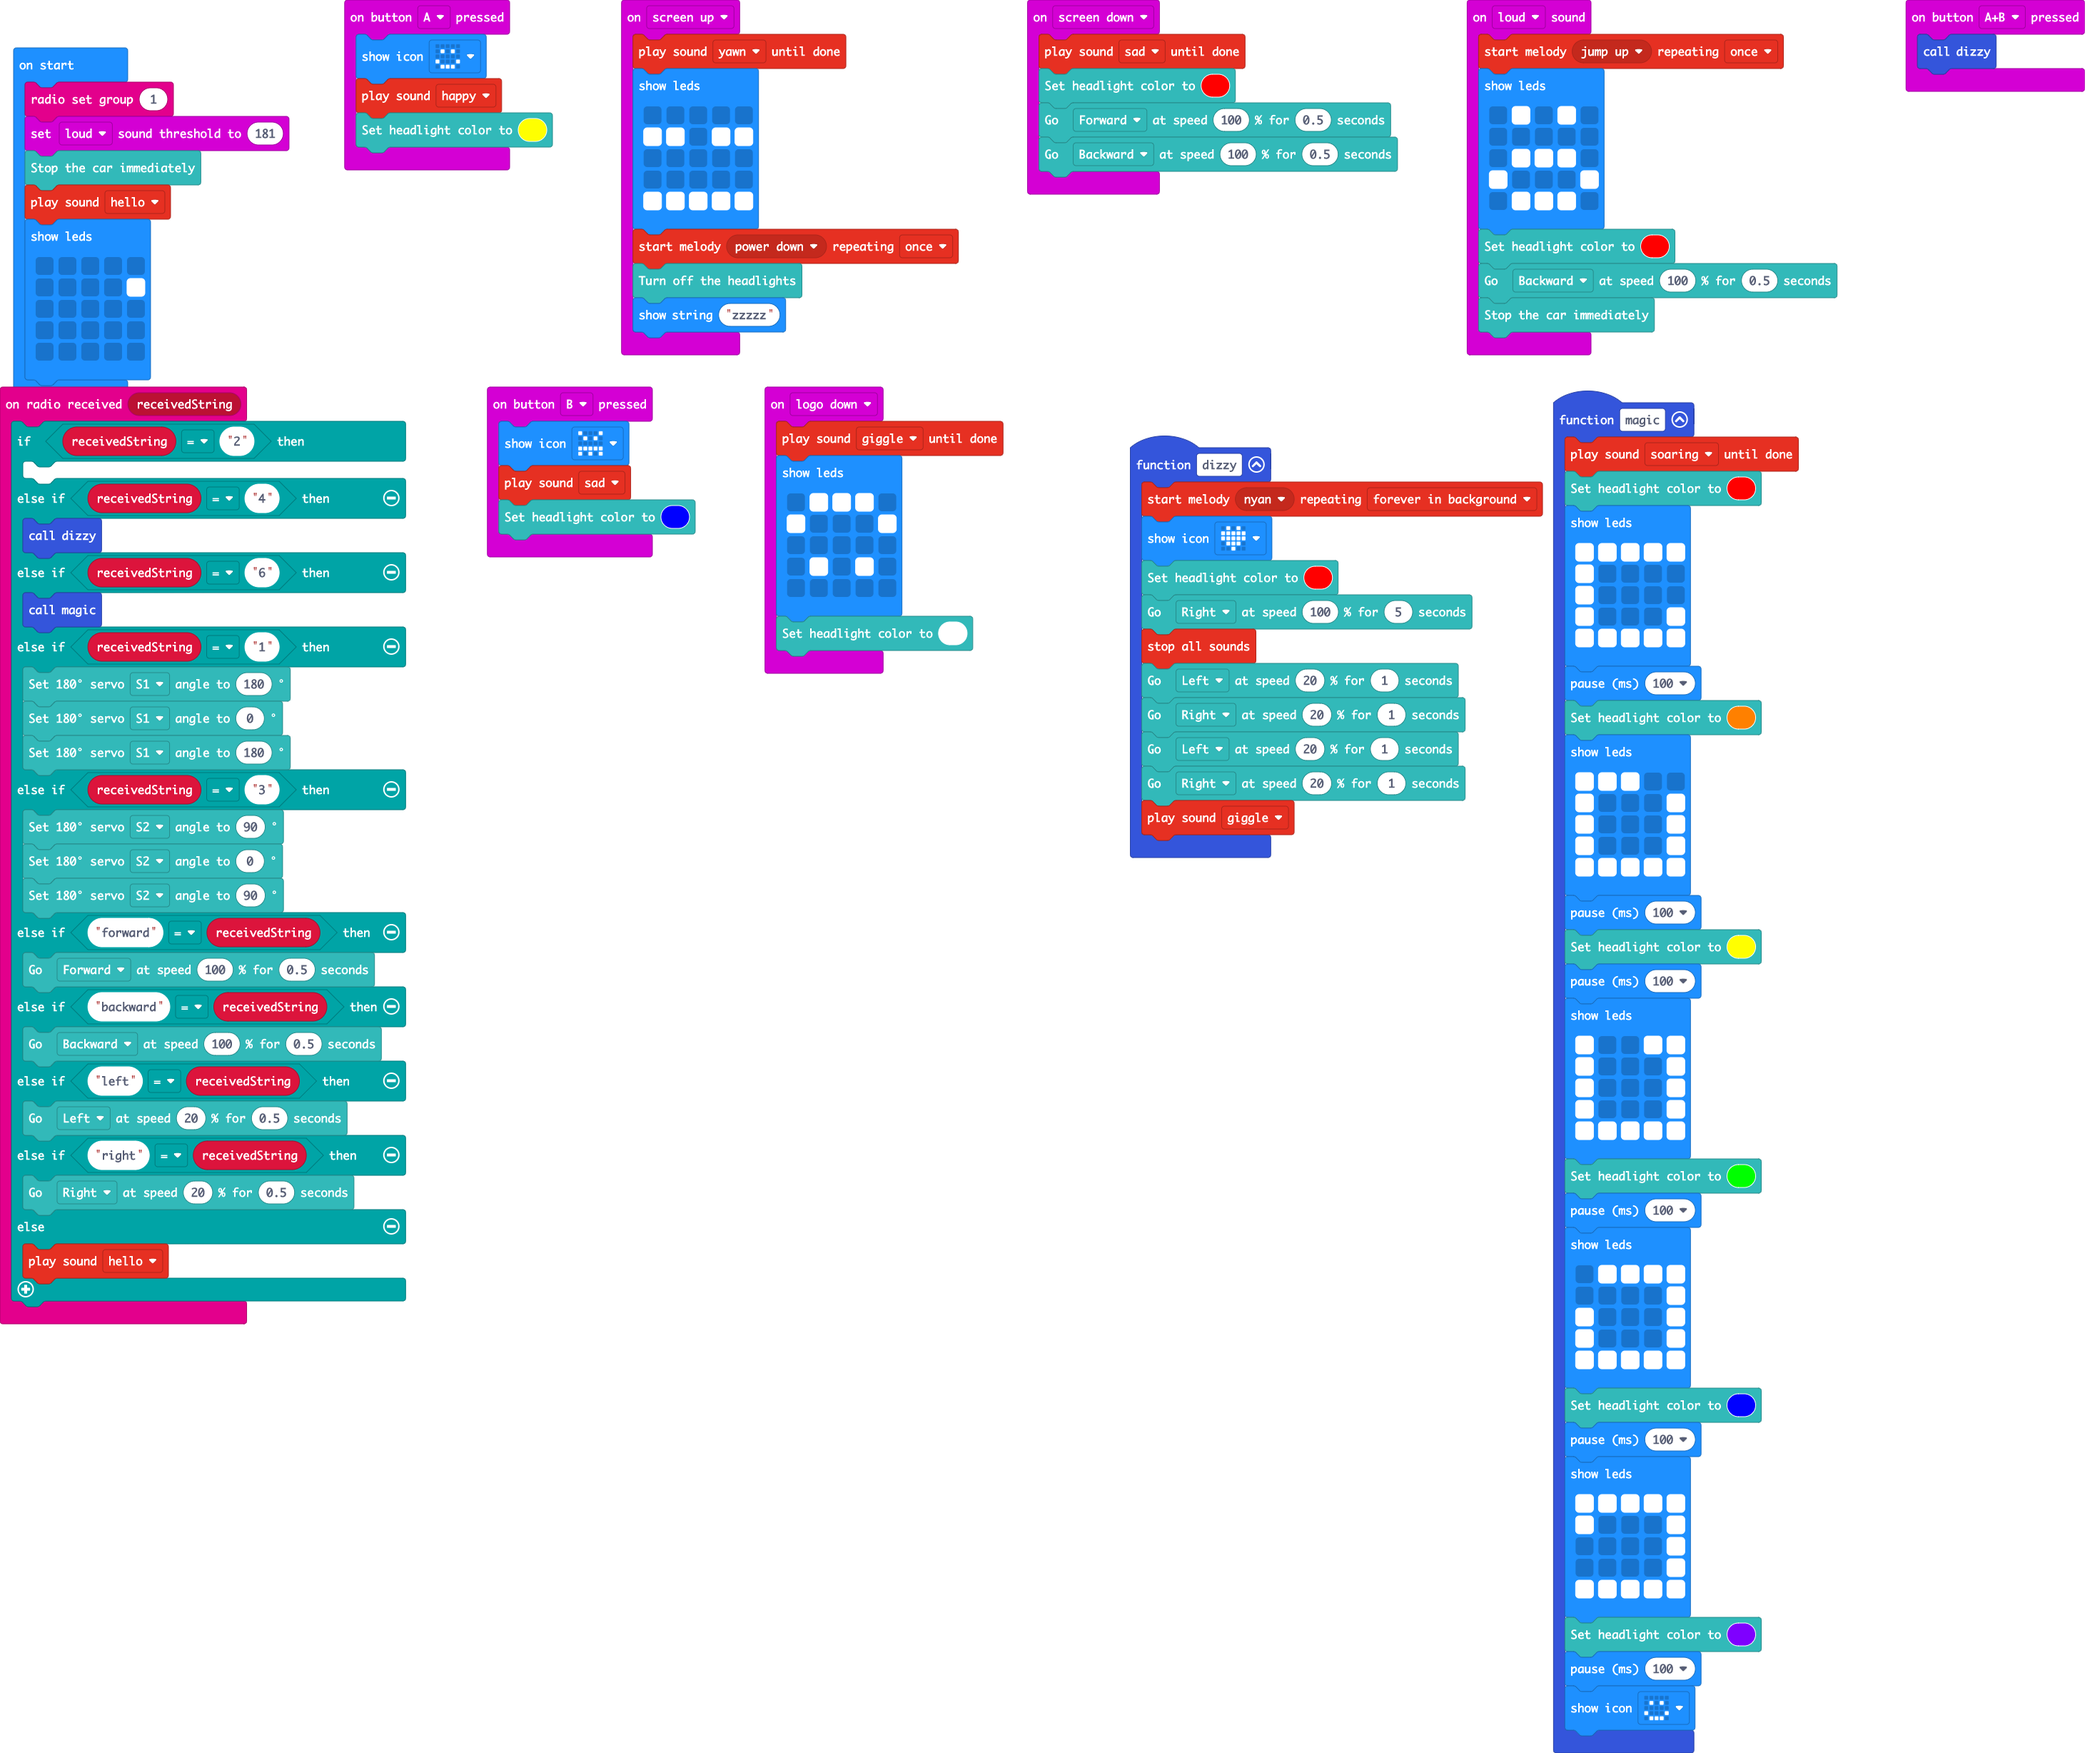
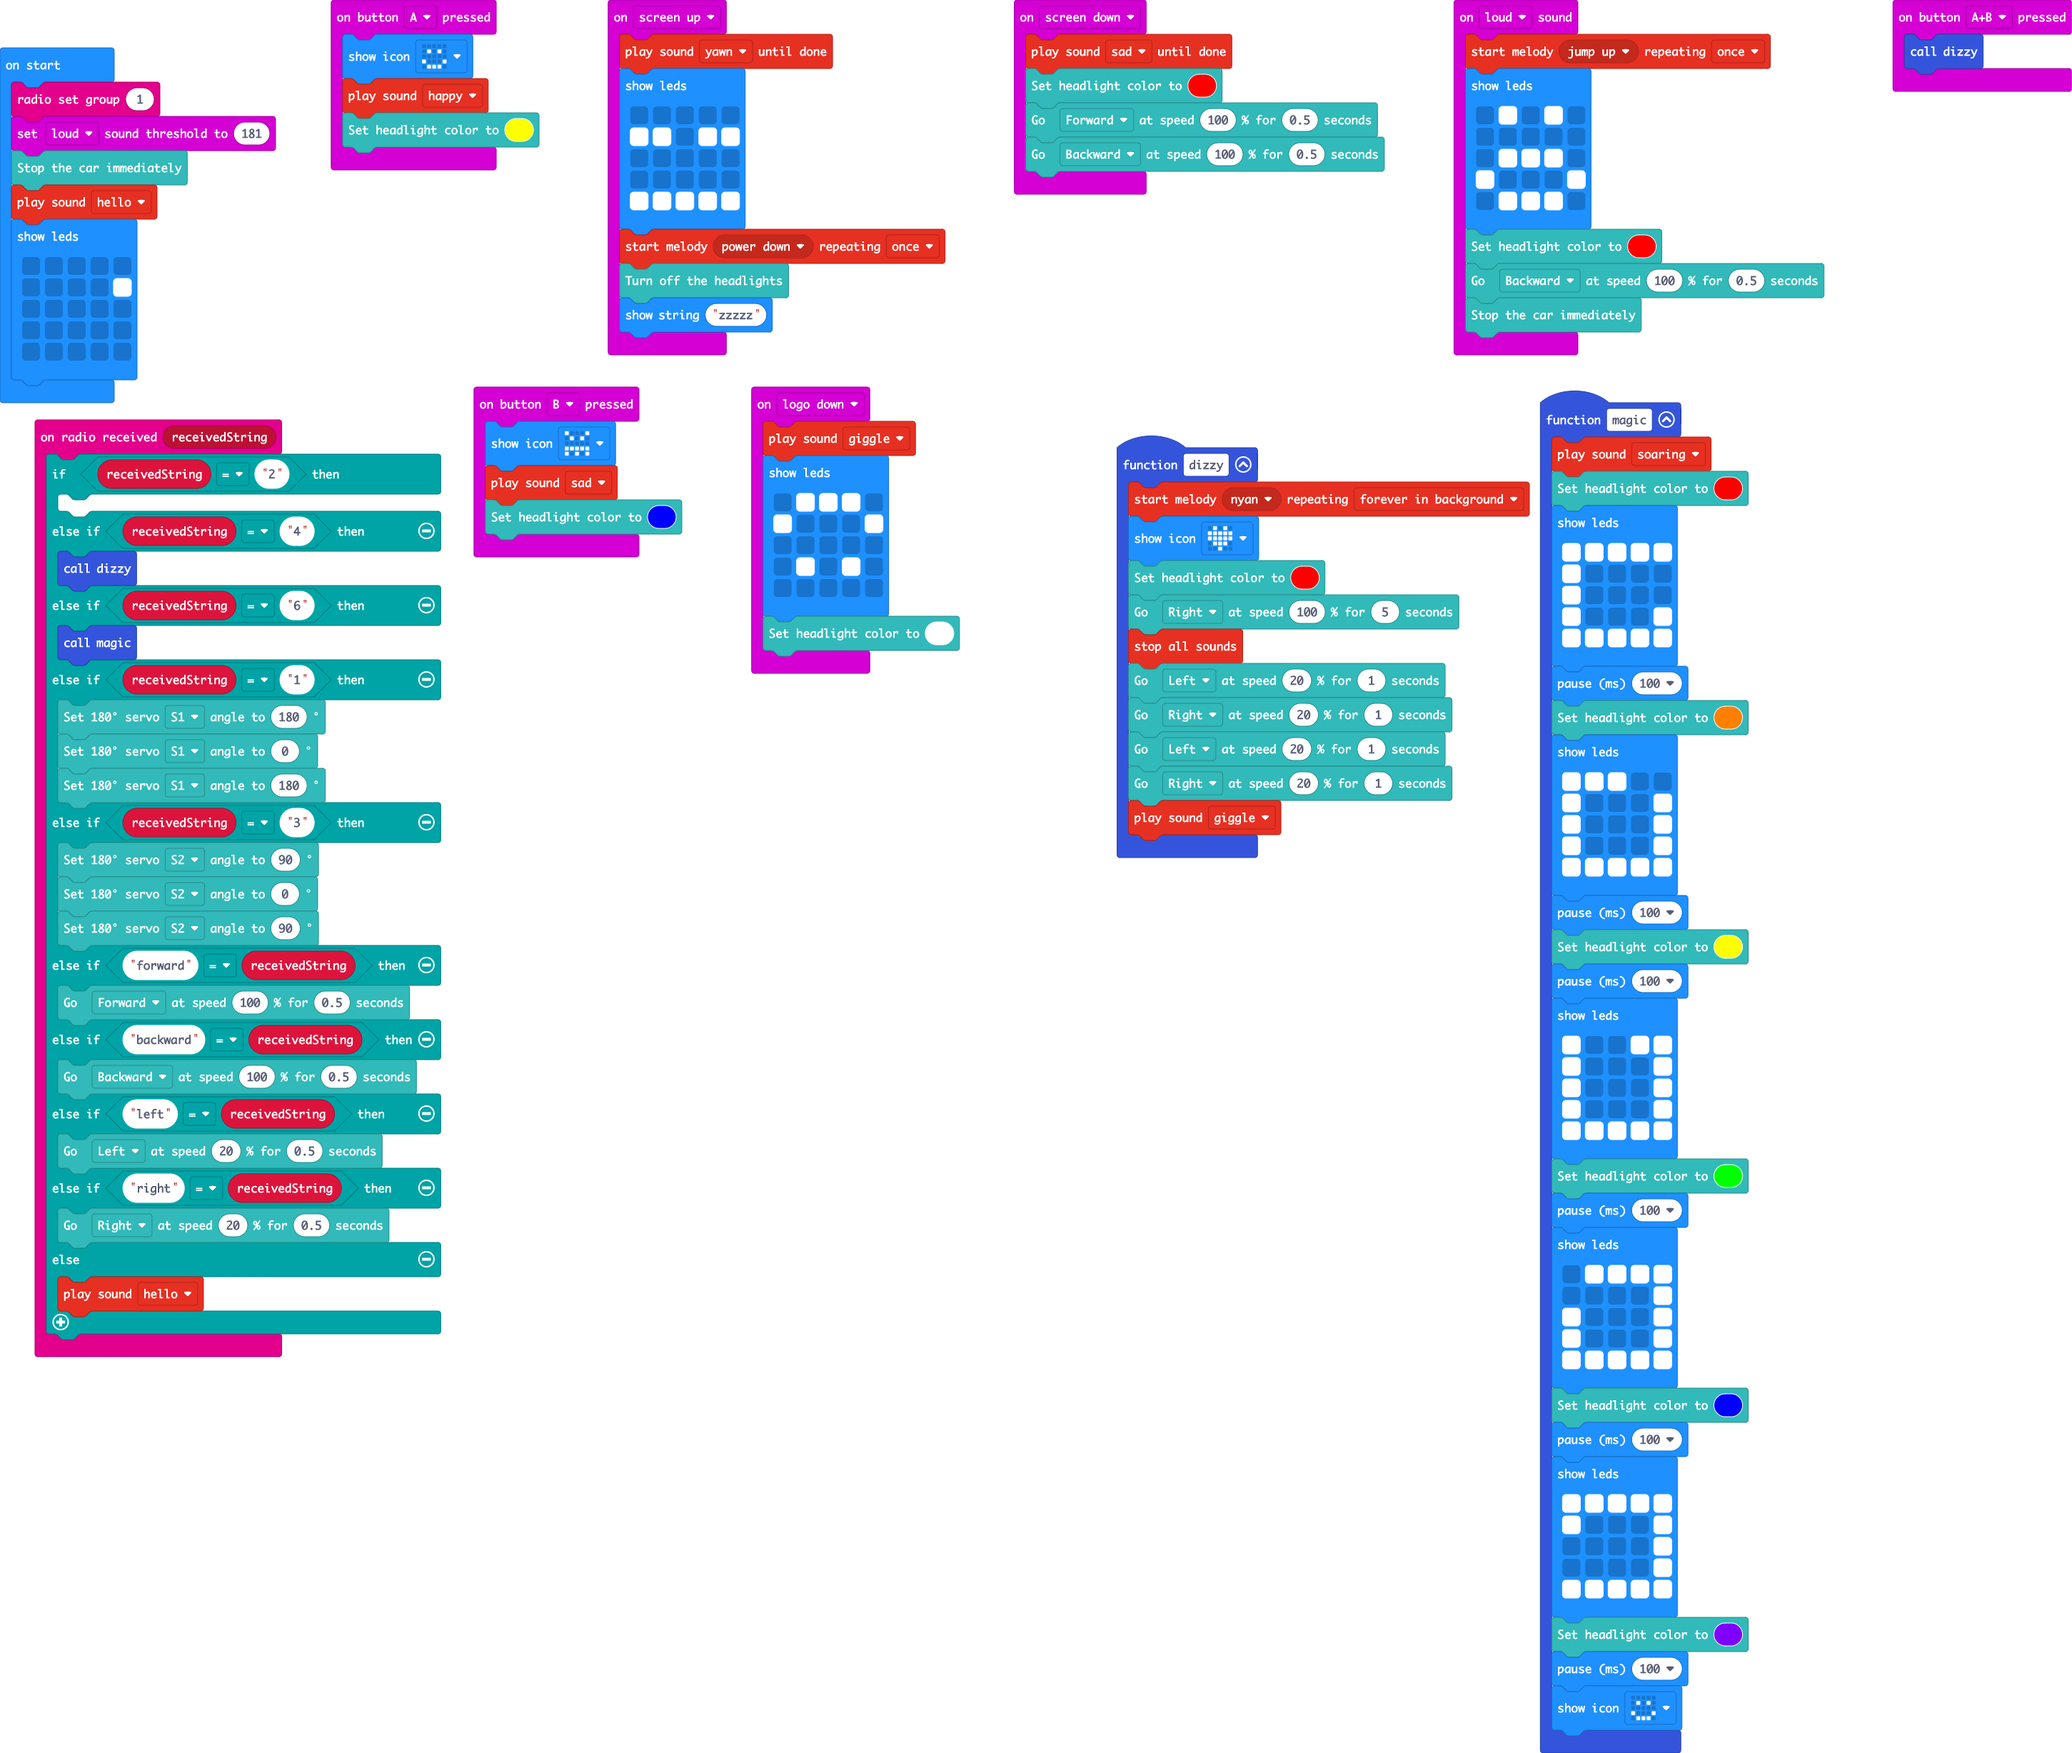
Update main.blocks, main.ts

diff --git a/main.ts b/main.ts
@@ -1,5 +1,5 @@
 function magic () {
-    soundExpression.soaring.playUntilDone()
+    soundExpression.soaring.play()
     TPBot.headlightColor(0xff0000)
     basic.showLeds(`
         # # # # #
@@ -134,7 +134,7 @@ input.onButtonPressed(Button.B, function () {
     TPBot.headlightColor(0x0000ff)
 })
 input.onGesture(Gesture.LogoDown, function () {
-    soundExpression.giggle.playUntilDone()
+    soundExpression.giggle.play()
     basic.showLeds(`
         . # # # .
         # . . . #
